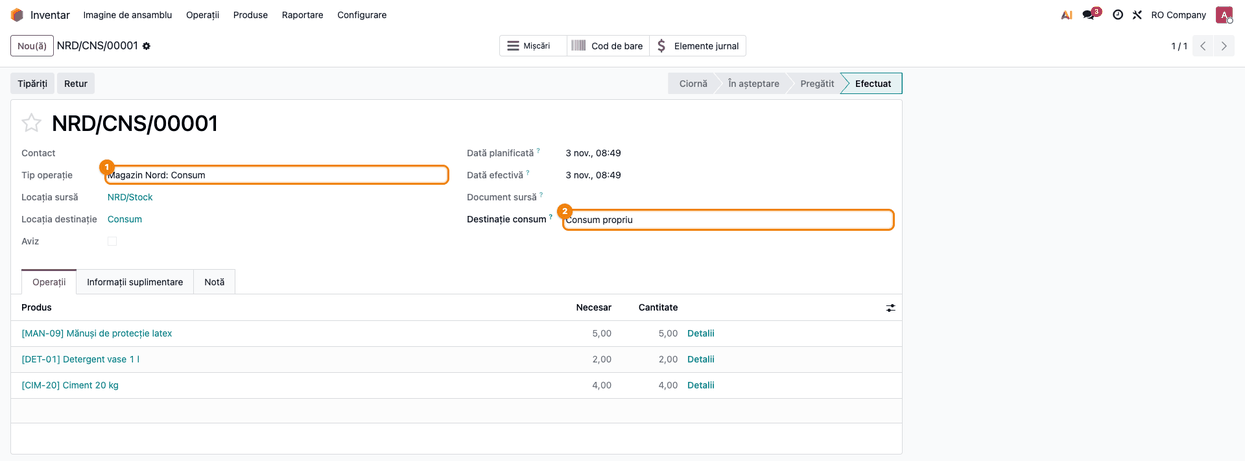
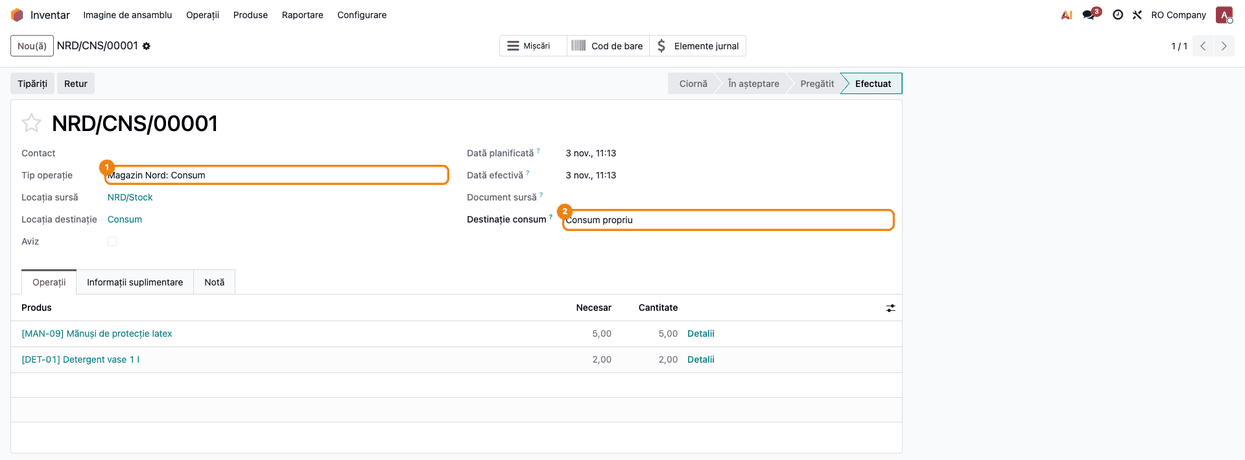
Reingestie: deltatech_stock_consumption_report 19.0.1.0.1 (marfa folosită intern, fișă + 9 capturi)
Assisted-by: Claude Opus 5.5

diff --git a/deltatech_stock_consumption_report/FISA_CONSULTANT.md b/deltatech_stock_consumption_report/FISA_CONSULTANT.md
@@ -43,8 +43,16 @@ de stoc deja validate și adaugă pe bon câmpul *Destinație consum*. Contextul
 - **Destinația consumului** este informativă: grupează raportul, dar **nu schimbă nota contabilă**
   a bonului. Conturile rămân cele din categoria produsului (secțiunea 4), indiferent dacă destinația
   e *Investiții* sau *Consum propriu*.
-- Verificarea „nu s-a dat marfă de vânzare pe consum" este o verificare de **control intern**, nu o
-  obligație legală; raportul doar scoate în evidență cazurile, decizia rămâne la contabil.
+- **Marfa nu se dă direct pe consum.** Mărfurile sunt bunurile cumpărate în vederea revânzării sau
+  produsele predate spre vânzare magazinelor proprii (OMFP 1802/2014, pct. 276 alin. (1) lit. a)), iar
+  materialele consumabile sunt cele care ajută la procesul de exploatare (lit. c)). În relația cu 371,
+  contul 607 primește doar marfa vândută, lipsă la inventar sau depreciată ireversibil. Marfa luată din vânzare pentru uz intern își schimbă destinația: se
+  transferă întâi, la cost, într-o gestiune de materiale (Dr 3028 = Cr 371), apoi se dă în consum din
+  materiale (Dr 6028 = Cr 3028). Reclasificarea Dr 3028 = Cr 371 nu e prevăzută expres în funcțiunea
+  conturilor 302 și 371; se justifică prin schimbarea destinației bunului (pct. 276 alin. (1) lit. a)
+  → lit. c)) și trebuie prevăzută în politica contabilă a firmei. Un bon de consum care scoate marfa direct din stoc (Dr 607 = Cr 371)
+  este o **anomalie**: umflă costul mărfurilor vândute și strică marja comercială. Raportul o scoate
+  în evidență prin coloana *Livrat clienților*; corecția rămâne la contabil.
 
 ## 3. Utilizatori și roluri
 
@@ -68,14 +76,30 @@ Raportul nu are conturi proprii; consumurile pe care le citește au fost contate
 | Operațiune | Debit | Credit |
 |-----------|-------|--------|
 | Consum materiale consumabile | 6028 Cheltuieli privind alte materiale consumabile | 3028 Alte materiale consumabile |
-| Consum propriu de mărfuri | 6xx — contul de consum setat pe contul de cheltuieli al mărfii (ex. 6028) | 371 Mărfuri |
+| Marfă trecută în materiale (transfer intern, la cost) | 3028 Alte materiale consumabile (prin 482, contul de transfer al companiei) | 371 Mărfuri |
+| Consum din gestiunea de materiale (marfa de mai sus) | 6028 Cheltuieli privind alte materiale consumabile | 3028 Alte materiale consumabile |
+| **Anomalie:** marfă dată în consum direct din stoc | 607 Cheltuieli privind mărfurile | 371 Mărfuri |
 | Dare în folosință obiecte de inventar | 603 Cheltuieli privind obiectele de inventar | 303 Materiale de natura obiectelor de inventar |
-| Retur din consum | **storno în roșu** pe aceleași conturi: Dr cheltuieli = Cr stoc, cu sumă negativă | |
+| Retur din consum (storno în roșu) | contul de cheltuieli, sumă negativă | contul de stoc, sumă negativă |
 
-Debitul este **contul de cheltuieli al produsului** (din categorie), înlocuit cu **Cont consum**
-dacă acesta e setat pe contul de cheltuieli. **Atenție la mărfuri:** contul lor de cheltuieli este de
-regulă **607**. Fără *Cont consum* setat pe 607, consumul propriu de marfă se înregistrează pe 607 și
-umflă costul mărfurilor vândute. Conturile exacte se verifică în baza de date a clientului, cu contabilul.
+Debitul este **contul de cheltuieli al produsului** (din categorie) sau, dacă e setat, contul de
+cheltuieli al locației din care iese bonul. Pentru marfa folosită intern:
+
+- pe categoria mărfii se bifează **schimbarea contului de stoc după gestiune**, iar locația de
+  materiale a magazinului (ex. *Materiale uz intern*) are cont de stoc **3028** (sau alt 302x, după
+  politica contabilă) și cont de cheltuieli **6028**; transferul intern Stoc → Materiale face nota
+  Dr 3028 = Cr 371, iar bonul de consum din locația de materiale face Dr 6028 = Cr 3028;
+- transferul trece prin **contul de transfer stoc al companiei** (implicit 482 în localizarea
+  română): Dr 482 = Cr 371 și Dr 3028 = Cr 482, în aceeași notă. Aici 482 e un **tranzit tehnic**
+  al localizării, nu o decontare între subunități cu contabilitate proprie (funcțiunea lui din OMFP):
+  soldul rămâne 0, dar contul are rulaj pe ambele laturi, vizibil în balanță și în D406. Contul de
+  transfer se alege cu contabilul (eventual un analitic dedicat), iar la închiderea lunii se verifică
+  soldul 0;
+- **nu** se setează *Cont consum* = 6028 pe contul 607 ca soluție implicită: dă Dr 6028 = Cr 371,
+  acceptabil doar dacă politica contabilă a firmei prevede explicit această simplificare;
+- **nu** se setează niciodată *Cont consum* pe conturile de stoc (371, 3028): dă note în oglindă.
+
+Conturile exacte se verifică în baza de date a clientului, cu contabilul.
 
 La darea în folosință, Odoo înregistrează contul extrabilanțier 8035 **simultan pe debit și pe credit**
 în aceeași notă (sold 0). Monografia corectă este **Dr 8035** la darea în folosință și **Cr 8035**
@@ -86,7 +110,8 @@ verifică cu contabilul.
 
 - un depozit (magazin) cu un **tip de operațiune** al cărui *locație destinație implicită* este de tip
   **Consum** (în capturi: `NRD/CNS` — Magazin Nord și `SUD/CNS` — Magazin Sud);
-- 2–3 produse stocabile, cu stoc și cost;
+- 2 consumabile (3028) și o marfă (371, categorie cu schimbarea contului de stoc), cu stoc și cost;
+- o locație de materiale în magazin, cu cont de stoc 3028 și cont de cheltuieli 6028;
 - două **destinații de consum** (ex. *Consum propriu* și *Investiții*);
 - cel puțin două bonuri de consum **validate** în luna raportată, pe destinații diferite.
 
@@ -98,9 +123,12 @@ verifică cu contabilul.
 3. Verificați că fiecare magazin are un tip de operațiune pentru consum, cu destinația implicită o
    locație de tip **Consum** (Inventar → Configurare → Tipuri de operațiuni). Raportul preselectează
    automat toate tipurile de operațiune ale companiei care au o astfel de destinație (sau una de tip *Utilizare* (dare în folosință)).
-4. Pe contul de cheltuieli al categoriilor de **mărfuri** (607) setați **Cont consum** (ex. 6028)
-   — Contabilitate → Configurare → Plan de conturi → contul 607 → câmpul *Cont consum*. Altfel,
-   consumul propriu de marfă ajunge pe 607 (vezi secțiunea 4).
+4. Dacă magazinele folosesc intern marfă din vânzare: activați **Locații de depozitare** (Inventar →
+   Configurare → Setări), bifați pe categoria mărfii schimbarea contului de stoc după gestiune, verificați
+   cu contabilul contul de transfer stoc al companiei (implicit 482, vezi secțiunea 4) și creați în
+   fiecare magazin o locație de materiale (Inventar → Configurare → Locații), cu cont de stoc 3028 și
+   cont de cheltuieli 6028. Marfa se mută acolo cu un transfer
+   intern, apoi se dă în consum din locația de materiale (vezi secțiunea 4 și Pasul 4).
 5. Definiți **destinațiile consumului** — **Inventar → Configurare → Destinații consum** (pasul 1 din
    fluxul de mai jos). Lista e **goală la instalare** și trebuie completată înainte de primul bon
    nou, altfel bonul nu se poate salva.
@@ -137,7 +165,7 @@ Nou este câmpul **Destinație consum**, în dreapta, sub *Document sursă*:
 La validare, mișcarea primește **valoarea de stoc** cu care a ieșit produsul și se face nota contabilă. Raportul ia în calcul
 **doar bonurile validate** (starea *Efectuat*).
 
-![Bonul de consum NRD/CNS/00001 în starea Efectuat: Tip operație Magazin Nord: Consum, Destinație consum Consum propriu, cu mănuși, detergent și ciment pe liniile de operații](screenshots/02_bon_consum.png)
+![Bonul de consum NRD/CNS/00001 în starea Efectuat: Tip operație Magazin Nord: Consum, Destinație consum Consum propriu, cu mănuși și detergent pe liniile de operații](screenshots/02_bon_consum.png)
 
 ### Pasul 3 — Nota contabilă a bonului
 
@@ -147,14 +175,29 @@ Nota se deschide din bon (butonul **Elemente jurnal** din partea de sus) sau din
 Facturare) → Contabilitate → Elemente jurnal**, căutând după referința bonului (ex. `NRD/CNS/00001`).
 Destinația consumului nu schimbă conturile notei.
 
-În exemplu, bonul `NRD/CNS/00001` are o notă de 107,56 lei: mănușile și detergentul (materiale
-consumabile) merg Dr 6028 = Cr 3028, iar cimentul (marfă) Dr 6028 = Cr 371, prin *Cont consum*
-setat pe 607. Raportul ia valoarea din această notă (creditul pe 3028 și 371), deci aceeași sumă, 107,56, apare pe
-rândul *Consum propriu* al magazinului *Magazin Nord* din pivotul de la Pasul 5.
+În exemplu, bonul `NRD/CNS/00001` are o notă de 57,00 lei: mănușile și detergentul (materiale
+consumabile) merg Dr 6028 = Cr 3028. Raportul ia valoarea din această notă (creditul pe 3028), deci
+aceeași sumă, 57,00, apare pe rândul *Consum propriu* al magazinului *Magazin Nord* din pivotul de la
+Pasul 6.
 
-![Nota contabilă a bonului NRD/CNS/00001, tabul Elemente jurnal: Dr 6028 pe cele trei produse, Cr 3028 pentru consumabile și Cr 371 pentru ciment, total 107,56 lei](screenshots/03_nota_consum.png)
+![Nota contabilă a bonului NRD/CNS/00001, tabul Elemente jurnal: Dr 6028 și Cr 3028 pentru mănuși (38,50) și detergent (18,50), total 57,00 lei](screenshots/03_nota_consum.png)
 
-### Pasul 4 — Deschiderea raportului
+### Pasul 4 — Marfă folosită intern: transferul în gestiunea de materiale
+
+Când magazinul folosește intern o marfă din vânzare (în exemplu, 10 saci de ciment pentru o
+investiție), marfa nu se dă direct pe consum. Gestionarul o mută întâi cu un **transfer intern**
+(**Inventar → Operații → Transferuri → Nou**, tip *Transferuri interne*) din stocul magazinului în
+locația de materiale (*Materiale uz intern*), apoi face bonul de consum **din locația de materiale**
+(câmpul *Locația sursă* pe bon), cu destinația potrivită.
+
+Transferul face nota la cost: Dr 482 = Cr 371 și Dr 3028 = Cr 482, adică net **Dr 3028 = Cr 371**
+(482 e tranzitul tehnic al localizării și rămâne cu sold 0; din cauza lui, totalul de jos al notei
+arată 252,80 lei, dublul valorii transferate de 126,40). Bonul de consum din materiale face apoi
+Dr 6028 = Cr 3028, 126,40 lei. Transferul nu apare în raportul de consumuri (nu e consum); apare doar bonul.
+
+![Nota contabilă a transferului intern NRD/INT/00001: Dr 482 și Cr 371 Mărfuri 126,40 lei, Dr 3028 Alte materiale consumabile și Cr 482 126,40 lei](screenshots/04_transfer_marfa.png)
+
+### Pasul 5 — Deschiderea raportului
 
 **Inventar → Raportare → Raport consumuri.** Se deschide fereastra raportului, cu:
 
@@ -166,9 +209,9 @@ rândul *Consum propriu* al magazinului *Magazin Nord* din pivotul de la Pasul 5
   să rulați raportul pe un singur magazin. Dacă goliți câmpul, intră **toate** mișcările spre locații
   de consum / dare în folosință din perioadă, indiferent de tipul de operațiune.
 
-![Fereastra Raport consumuri: De la data 1 nov., Până la data 30 nov., Tipuri de operațiune Magazin Nord: Consum și Magazin Sud: Consum, butoanele Export XLSX și Vizualizare](screenshots/04_wizard_raport.png)
+![Fereastra Raport consumuri: De la data 1 nov., Până la data 30 nov., Tipuri de operațiune Magazin Nord: Consum și Magazin Sud: Consum, butoanele Export XLSX și Vizualizare](screenshots/05_wizard_raport.png)
 
-### Pasul 5 — Verificarea pe ecran (pivot)
+### Pasul 6 — Verificarea pe ecran (pivot)
 
 Apăsați **Vizualizare**. Se deschide un **pivot** pe mișcările de consum din perioadă:
 
@@ -179,7 +222,7 @@ Apăsați **Vizualizare**. Se deschide un **pivot** pe mișcările de consum din
    o singură dată, la apăsarea butonului).
 2. **Verificați:**
    - apar **toate magazinele** care au avut consumuri în lună (dacă lipsește unul, verificați
-     tipurile de operațiune selectate la Pasul 4);
+     tipurile de operațiune selectate la Pasul 5);
    - **nu există rânduri *Nedefinit*** — ele sunt bonuri fără destinație; completați destinația pe
      bonurile respective (Pasul 2) și rulați din nou raportul;
    - **nicio valoare nu este 0** pe un produs cu cantitate — o valoare 0 înseamnă o mișcare fără
@@ -195,12 +238,13 @@ Apăsați **Vizualizare**. Se deschide un **pivot** pe mișcările de consum din
    fereastra raportului pentru export. Din pivot se poate descărca și direct un Excel standard Odoo
    (butonul de descărcare din pivot), dar exportul de mai jos are formatul pentru contabilitate.
 
-În exemplu, Magazin Nord are 233,96 lei, din care *Consum propriu* 107,56 și *Investiții* 126,40 (10
-saci de ciment), iar Magazin Sud 24,65 lei, tot *Consum propriu*; total 258,61 lei.
+În exemplu, Magazin Nord are 183,40 lei, din care *Consum propriu* 57,00 și *Investiții* 126,40 (10
+saci de ciment, din locația de materiale), iar Magazin Sud 75,21 lei, tot *Consum propriu*, în care
+intră și 4 saci de ciment dați direct din stoc (anomalia de la Pasul 8); total 258,61 lei.
 
-![Pivotul Consumuri: Magazin Nord desfăcut pe Consum propriu 107,56 lei și Investiții 126,40 lei, Magazin Sud cu Consum propriu 24,65 lei, apoi pe produse; total 258,61 lei](screenshots/05_pivot_consumuri.png)
+![Pivotul Consumuri: Magazin Nord desfăcut pe Consum propriu 57,00 lei și Investiții 126,40 lei, Magazin Sud cu Consum propriu 75,21 lei (ciment, detergent, mănuși); total 258,61 lei](screenshots/06_pivot_consumuri.png)
 
-### Pasul 6 — Exportul XLSX: foaia centralizată
+### Pasul 7 — Exportul XLSX: foaia centralizată
 
 Din fereastra raportului apăsați **Export XLSX**. Fișierul (`consumuri_<de la>_<până la>.xlsx`)
 apare în fereastră, gata de descărcat. Prima foaie, **Centralizat**, are câte un rând pe **magazin ×
@@ -210,16 +254,16 @@ destinație**:
    rândul *Total* se adună contoarele rândurilor, deci un produs consumat în ambele magazine sau pe
    două destinații e numărat de mai multe ori), *Cantitate*, *Valoare* și *Produse vândute în
    ultimele 6 luni* (câte dintre produse s-au și vândut clienților); ultimul rând este **Total**.
-2. **Verificați** — totalul din *Valoare* este **același** cu totalul din pivotul de la Pasul 5 și cu
+2. **Verificați** — totalul din *Valoare* este **același** cu totalul din pivotul de la Pasul 6 și cu
    contabilitatea; perioada din antet (*Perioada*) este luna corectă; nu există rânduri cu destinația
    *Nedefinit*.
 3. **Treceți mai departe** la foaia de detaliu dacă *Produse vândute în ultimele 6 luni* nu este 0.
 
 Capturile sunt pe date demonstrative.
 
-![Foaia Centralizat a exportului XLSX: rândurile Magazin Nord Consum propriu 107,56, Magazin Nord Investiții 126,40 și Magazin Sud Consum propriu 24,65, cu Total 258,61](screenshots/06_xlsx_centralizat.png)
+![Foaia Centralizat a exportului XLSX: rândurile Magazin Nord Consum propriu 57,00, Magazin Nord Investiții 126,40 și Magazin Sud Consum propriu 75,21, cu Total 258,61 și 2 produse vândute în ultimele 6 luni](screenshots/07_xlsx_centralizat.png)
 
-### Pasul 7 — Exportul XLSX: foaia detaliată pe produs
+### Pasul 8 — Exportul XLSX: foaia detaliată pe produs
 
 A doua foaie, **Detaliat**, are câte un rând pe **magazin × destinație × produs**:
 
@@ -228,14 +272,30 @@ A doua foaie, **Detaliat**, are câte un rând pe **magazin × destinație × pr
    (ultimele 6 luni)* — cantitatea livrată clienților **pe toată compania** (nu doar din magazinul
    rândului), începând cu 6 luni înainte de sfârșitul perioadei, **brută** (retururile de la clienți
    nu se scad). Rulat retroactiv, raportul include și livrările de după perioadă.
-2. **Verificați** — produsele cu **cantitate mare livrată clienților** sunt marfă care se vinde
-   efectiv; dacă au ieșit pe consum în cantități mari, verificați destinația și cereți justificarea
-   magazinului. Când categoriile nu separă consumabilele de marfă (de exemplu sunt pe furnizor) și
-   aproape toate produsele au bifa „Se poate vinde", **coloana relevantă este cea cu livrările către
-   clienți**, nu categoria.
+2. **Verificați** — un produs cu **cantitate livrată clienților** este marfă. Pe un rând de consum el
+   e corect doar dacă a trecut întâi prin gestiunea de materiale (Pasul 4); dacă a ieșit direct din
+   stocul de vânzare, nota bonului e Dr 607 = Cr 371 și e o **anomalie**. În exemplu, rândul *Magazin
+   Sud / Consum propriu / Ciment 20 kg* (4 saci, 50,56 lei, 30 livrați clienților) e un astfel de bon:
+   rândul arată la fel ca *Magazin Nord / Investiții / Ciment*, care e corect, pentru că raportul nu
+   are locația sursă. Testul care decide: **Contabilitate (sau Facturare) → Contabilitate → Elemente
+   jurnal**, filtrat pe perioadă, pe contul **607** și pe *Etichetă* care conține `/CNS/`: fiecare
+   linie găsită e un bon-anomalie (sau deschideți bonul și verificați *Locația sursă*). Corecția:
+   (1) **storno în roșu** al notei bonului, Dr 607 = Cr 371 cu −50,56 (în practică, returul bonului);
+   (2) transferul intern în locația de materiale, Dr 3028 = Cr 371, 50,56; (3) bonul de consum din
+   materiale, Dr 6028 = Cr 3028, 50,56. **Nu** se adaugă doar o reclasificare Dr 3028 = Cr 371: marfa
+   a ieșit deja din 371, iar 607 ar rămâne umflat. După corecție, raportul lunii arată și bonul-anomalie
+   (50,56), și bonul nou din materiale (50,56), dar nu și returul: la reconciliere scădeți returul, ca
+   la orice retur din consum (Pasul 6). Dacă luna bonului-anomalie e închisă, storno-ul și notele noi
+   se fac în perioada curentă, deschisă. Când categoriile nu separă consumabilele de
+   marfă (de exemplu sunt pe furnizor) și aproape toate produsele au bifa „Se poate vinde",
+   **coloana relevantă este cea cu livrările către clienți**, nu categoria.
 3. **Treceți mai departe** — fișierul se transmite contabilității / se arhivează cu închiderea lunii.
 
-![Foaia Detaliat a exportului XLSX: câte un rând pe magazin, destinație și produs; cimentul apare la Magazin Nord pe Consum propriu (4) și pe Investiții (10), cu 30 livrate clienților](screenshots/07_xlsx_detaliat.png)
+![Foaia Detaliat a exportului XLSX: câte un rând pe magazin, destinație și produs; cimentul apare la Magazin Nord pe Investiții (10) și la Magazin Sud pe Consum propriu (4), ambele cu 30 livrate clienților](screenshots/08_xlsx_detaliat.png)
+
+Nota bonului-anomalie, găsită în Elemente jurnal pe contul 607:
+
+![Nota contabilă a bonului-anomalie SUD/CNS/00002, tabul Elemente jurnal: Dr 607 Cheltuieli privind mărfurile și Cr 371 Mărfuri pentru ciment, 50,56 lei](screenshots/09_nota_anomalie.png)
 
 ### Note de monografie și raportare
 
@@ -243,12 +303,45 @@ Raportul **nu creează note contabile**. Notele pe care le reflectă sunt cele a
 
 ```
 Consum materiale consumabile:   Dr 6028 = Cr 3028
-Consum propriu de mărfuri:      Dr 6028 (Cont consum al lui 607) = Cr 371
+Marfă trecută în materiale:     Dr 3028 = Cr 371   (transfer intern, la cost, prin 482)
+Consum din materiale:           Dr 6028 = Cr 3028
+Anomalie, marfă direct pe consum: Dr 607 = Cr 371  (de corectat de contabil)
 Dare în folosință:              Dr 603  = Cr 303
                                 extracontabil corect: Dr 8035 (la scoaterea din uz Cr 8035);
                                 Odoo pune 8035 pe ambele laturi, evidența se ține separat
 Retur din consum:               storno în roșu al notei de consum (sume negative)
 ```
+
+După destinație:
+
+- **Consum propriu în activitate:** notele de mai sus; fără TVA colectată, pentru că preluarea
+  bunurilor pentru propria activitate economică nu e livrare (HG 1/2016, Titlul VII, pct. 7 alin. (1));
+  cheltuială deductibilă, fiind efectuată în scopul activității. Aceeași regulă susține lipsa TVA la
+  investiția în regie proprie.
+- **Investiție în regie proprie:** notele de mai sus, plus lunar (sau la finalizare) Dr 231 = Cr 722
+  la costul acumulat, apoi Dr 21x = Cr 231 la recepție. Nota Dr 231 = Cr 371 direct **nu** e corectă.
+- **Utilizare în afara activității** (uz personal, dat gratuit, preluat de asociat): livrare asimilată,
+  cu TVA colectată, **doar dacă TVA aferentă a fost dedusă total sau parțial** (Codul fiscal art. 270
+  alin. (4) lit. a) pentru scopuri fără legătură cu activitatea, lit. b) pentru bunuri puse gratuit la
+  dispoziția altor persoane, alin. (5) pentru distribuirea de bunuri către asociați). Nu constituie
+  livrare (alin. (8)):
+  - bunurile acordate gratuit în scop de reclamă, stimularea vânzărilor (inclusiv mostre) sau în alte
+    scopuri legate de activitate (lit. b));
+  - bunurile de mică valoare din sponsorizare, mecenat sau protocol (lit. c)), în limitele din HG
+    1/2016, Titlul VII, pct. 7 alin. (12): la protocol cel mult 100 lei pe cadou, fără TVA; la
+    sponsorizare și mecenat 3‰ din cifra de afaceri;
+  - alimentele aproape de expirare, în condițiile legii risipei alimentare (lit. d)).
+
+  Baza de impozitare e prețul de cumpărare sau, în lipsă, prețul de cost (art. 286 alin. (1) lit.
+  c)); cota standard e 21% pentru operațiunile de după 1 august 2025 (art. 291 alin. (1), modificat
+  prin L 141/2025). Nota Dr 635 = Cr 4427 se face doar la bunurile date gratuit sau folosite în scop
+  personal, pe costul firmei; la preluarea de către asociat, TVA se recuperează odată cu creanța
+  (Dr 4xx = Cr 4427), nu prin 635.
+
+  Acestea **nu sunt consum propriu**: donația se înregistrează Dr 6582 = Cr 371; protocolul pe 623,
+  deși funcțiunea lui 623 nu prevede contrapartida 371/302, deci modul de înregistrare se stabilește
+  prin politica contabilă; preluarea de către asociat, ca distribuire sau creanță. Nu folosiți pentru
+  ele bonul de consum pe 6028 fără acordul contabilului; modulul nu calculează TVA.
 
 Retururile din consum **nu** intră în raport: el ia doar mișcările cu destinația locație de consum /
 dare în folosință. Dacă în lună au existat retururi, totalul raportului este mai mare decât rulajul
@@ -299,7 +392,11 @@ contabilitatea și decizia asupra produselor de vânzare ieșite pe consum.
 - [ ] Totalul valorii din raport, minus retururile din consum ale lunii, = rulajul creditor net
       (cu storno) al conturilor de stoc din notele bonurilor de consum / dare în folosință ale lunii
       (filtrate după prefixul tipului de operațiune, ex. `/CNS/` — nu tot jurnalul de stoc).
-- [ ] Consumul de marfă se înregistrează pe contul de consum (ex. 6028), nu pe 607.
+- [ ] Transferul intern al unei mărfi în locația de materiale face nota Dr 3028 = Cr 371 (prin 482),
+      iar bonul de consum din locația de materiale face Dr 6028 = Cr 3028.
+- [ ] Un bon de consum cu marfă scoasă direct din stocul de vânzare apare în Elemente jurnal pe contul
+      607 cu eticheta `/CNS/` (Dr 607 = Cr 371); un bon din locația de materiale nu apare acolo.
+- [ ] La închiderea lunii, soldul contului de transfer stoc (482) este 0.
 
 ## 9. Mesaje de eroare frecvente
 
@@ -312,7 +409,8 @@ contabilitatea și decizia asupra produselor de vânzare ieșite pe consum.
 | Lipsește un magazin din raport | Tipul lui de operațiune nu are destinația implicită o locație de tip *Consum* sau *Utilizare* (dare în folosință), deci nu e preselectat | Corectați destinația implicită a tipului de operațiune sau adăugați-l manual în *Tipuri de operațiune* |
 | Valoare 0 pe un produs cu cantitate | Bonul nu are notă contabilă (valorizare periodică) și produsul nu avea cost la momentul ieșirii | Verificați costul produsului și mișcarea; corecția valorii se face în contabilitate, nu în raport |
 | Totalul nu se potrivește cu contabilitatea | În lună au existat retururi din consum (storno în roșu) sau consumuri pe alte tipuri de operațiune decât cele selectate | Goliți *Tipuri de operațiune* (toate consumurile) și scădeți retururile din consum din total |
-| Consumul de marfă apare pe 607 | Contul 607 nu are *Cont consum* setat | Setați *Cont consum* (ex. 6028) pe 607 — secțiunea 5, pasul 4 |
+| Consumul de marfă apare pe 607 (Dr 607 = Cr 371) | Marfa a fost dată pe consum direct din stocul de vânzare | Returul bonului (storno Dr 607 = Cr 371), transfer intern în locația de materiale, bon nou din materiale (Pasul 8); pe viitor marfa trece întâi prin locația de materiale — secțiunea 5, pasul 4 |
+| Contul 482 are sold la închiderea lunii | Un transfer intern între gestiuni cu conturi de stoc diferite nu s-a încheiat (ex. tranzit neajuns) | Verificați transferurile interne ale lunii; nota de transfer trebuie să închidă 482 în aceeași notă |
 | Eroare „Object stock.consumption.report.wizard doesn't exist" după instalare | Modulul a fost instalat din shell, iar serverul web nu și-a reîncărcat registry-ul | Reporniți serverul (pe odoo.sh: `odoosh-restart http`) |
 
 ## 10. Capturi de ecran
@@ -324,11 +422,13 @@ engleză din `static/description/en/`, pentru `readme/USAGE.md`:
 
 1. `01_destinatii_consum.png` — lista destinațiilor consumului (Consum propriu, Investiții).
 2. `02_bon_consum.png` — bonul de consum validat, cu *Tip operație* și *Destinație consum* marcate.
-3. `03_nota_consum.png` — nota contabilă a bonului: Dr cont de consum, Cr cont de stoc.
-4. `04_wizard_raport.png` — fereastra raportului: perioada și tipurile de operațiune de consum.
-5. `05_pivot_consumuri.png` — pivotul consumurilor, magazin × destinație × produs, cu cantitate și valoare.
-6. `06_xlsx_centralizat.png` — exportul XLSX, foaia centralizată pe magazin și destinație.
-7. `07_xlsx_detaliat.png` — exportul XLSX, foaia detaliată pe magazin, destinație și produs.
+3. `03_nota_consum.png` — nota contabilă a bonului: Dr 6028, Cr 3028.
+4. `04_transfer_marfa.png` — nota transferului de marfă în locația de materiale: Dr 3028 = Cr 371, prin 482.
+5. `05_wizard_raport.png` — fereastra raportului: perioada și tipurile de operațiune de consum.
+6. `06_pivot_consumuri.png` — pivotul consumurilor, magazin × destinație × produs, cu cantitate și valoare.
+7. `07_xlsx_centralizat.png` — exportul XLSX, foaia centralizată pe magazin și destinație.
+8. `08_xlsx_detaliat.png` — exportul XLSX, foaia detaliată pe magazin, destinație și produs, cu bonul-anomalie.
+9. `09_nota_anomalie.png` — nota bonului-anomalie: Dr 607 = Cr 371.
 
 Regenerare:
 
@@ -354,7 +454,9 @@ Regenerare:
   trebuie să fie cea pe care o recunoaște contabilul.
 - Insistați pe ordinea **verificare pe ecran → export**: contabilul confirmă întâi totalul din pivot
   cu contabilitatea, abia apoi trimite Excel-ul.
-- Capturile foilor Excel (06, 07) sunt randate ca tabel simplu: datele și formatul numerelor sunt cele
+- Capturile foilor Excel (07, 08) sunt randate ca tabel simplu: datele și formatul numerelor sunt cele
   din fișier, dar fără culorile și lățimile de coloană din Excel.
 - Coloana *Livrat clienților (ultimele 6 luni)* este „semnalul" pentru marfa de vânzare dată pe
   consum, când categoria și bifa „Se poate vinde" nu ajută (aproape toate produsele sunt vandabile).
+- Prezentați marfa dată direct pe consum ca **anomalie**, nu ca flux: fluxul corect e transferul în
+  gestiunea de materiale, apoi bonul de consum din materiale.

diff --git a/deltatech_stock_consumption_report/index.md b/deltatech_stock_consumption_report/index.md
@@ -1,7 +1,7 @@
 # Stock Consumption Report (Raport consumuri stoc)
 
 - **Nume Tehnic:** `deltatech_stock_consumption_report`
-- **Versiune:** `19.0.1.0.0`
+- **Versiune:** `19.0.1.0.1`
 - **Cale:** https://github.com/dhongu/deltatech/tree/19.0/deltatech_stock_consumption_report
 - **Cale Locală:** `odoo-addons/deltatech/deltatech_stock_consumption_report`
 - **Ultima Ingestie:** `2026-11-03`
@@ -19,6 +19,7 @@ Modulul oferă contabilului un raport lunar al bonurilor de consum (transferuril
 - **Valoare din contabilitate**: valoarea unui consum este creditul liniilor de produs din nota contabilă a bonului (stocul care iese din contul de stoc); dacă nu există notă contabilă, se folosește valoarea de stoc a mișcării.
 - **Pivot pe ecran** pe magazin, destinație și produs, cu cantitate și valoare; rândurile „Nedefinit” sunt bonuri fără destinație.
 - **Export XLSX** cu două foi: *centralizat* pe magazin și destinație (produse, cantitate, valoare) și *detaliat* pe magazin, destinație și produs, cu categorie, cost mediu, marcajul „se poate vinde” și cantitatea livrată clienților în ultimele 6 luni, ca să se observe marfa destinată vânzării ieșită pe consum.
+- **Marfa folosită intern** trece întâi, la cost, într-o locație de materiale a magazinului (Dr 3028 = Cr 371, prin contul de transfer stoc al companiei), apoi se dă în consum din materiale (Dr 6028 = Cr 3028); marfa dată direct din stocul de vânzare (Dr 607 = Cr 371) e o anomalie, găsită în elementele de jurnal pe 607 cu eticheta `/CNS/` (detalii și corecție în fișa consultant).
 - **Acces**: raportul este disponibil rolurilor Inventar / Administrator; destinațiile pot fi citite de orice utilizator de inventar (pentru alegerea pe bon) și modificate doar de administratori. Destinațiile sunt filtrate multi-company.
 - Fluxul pas-cu-pas, cu capturi, este în [Fișa consultant](FISA_CONSULTANT.md).
 

diff --git a/log.md b/log.md
@@ -4,6 +4,12 @@ This is an append-only log of all operations performed on the wiki.
 
 ---
 
+## [2026-11-03] Reingestie: deltatech_stock_consumption_report (marfa folosită intern)
+
+- **Acțiune:** actualizare [deltatech_stock_consumption_report](deltatech_stock_consumption_report/index.md) după dhongu/deltatech#3931: versiune `19.0.1.0.0 → 19.0.1.0.1`, funcționalitate nouă în pagină (marfa folosită intern trece prin gestiunea de materiale; marfa dată direct pe consum e anomalie), fișa consultant resincronizată cu 9 capturi (noi: `04_transfer_marfa`, `09_nota_anomalie`; celelalte renumerotate).
+- **Sursă:** `readme/FISA_CONSULTANT.md` și `static/description/` din `origin/19.0`; monografii verificate de Pacioli pe `98858aa`.
+- **Fișiere actualizate:** `deltatech_stock_consumption_report/` (index.md, FISA_CONSULTANT.md, screenshots/), `log.md`, `.index/chunks.json`.
+
 ## [2026-11-03] Ingestie: deltatech_stock_consumption_report
 
 - **Acțiune:** pagină nouă [deltatech_stock_consumption_report](deltatech_stock_consumption_report/index.md) (un subagent `documentarist-wiki`), modul nou unit în deltatech 19.0 (dhongu/deltatech#3929); fișa consultant copiată, cu 7 capturi.
